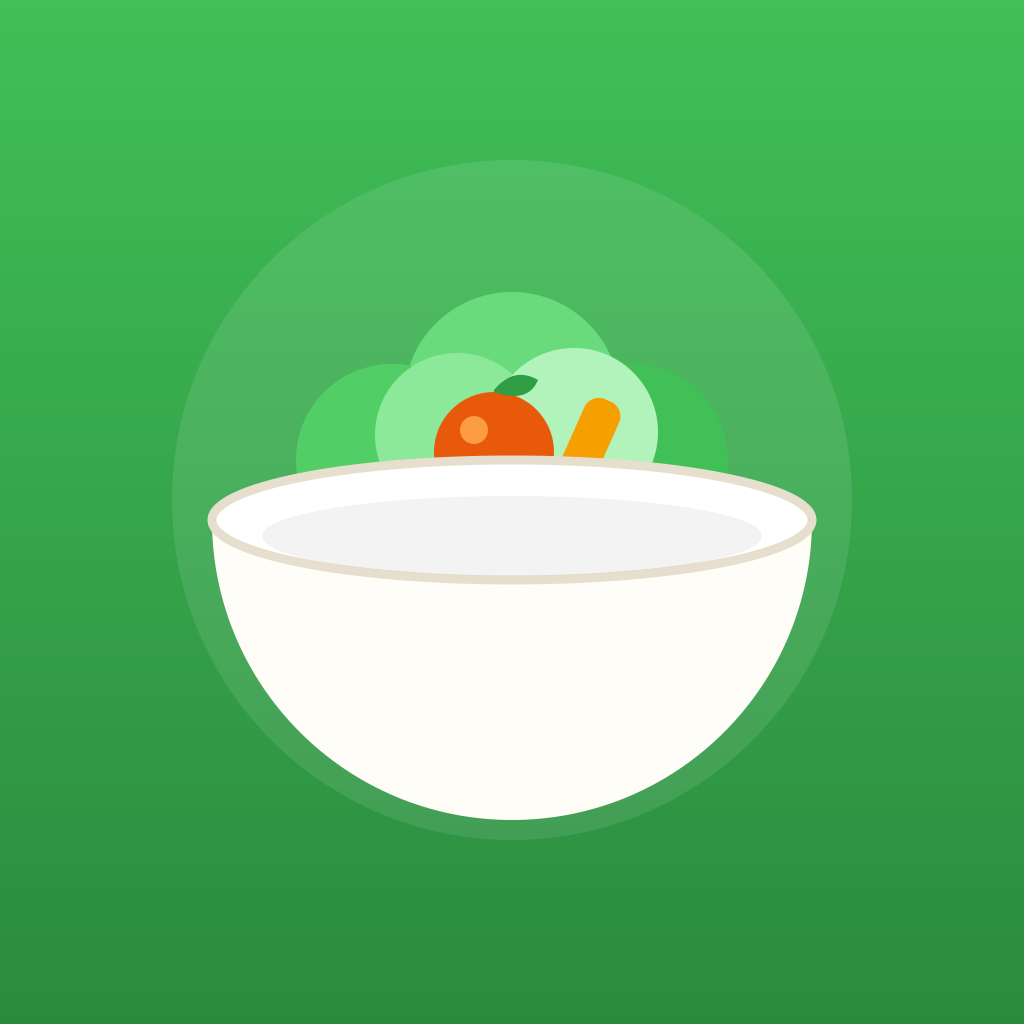
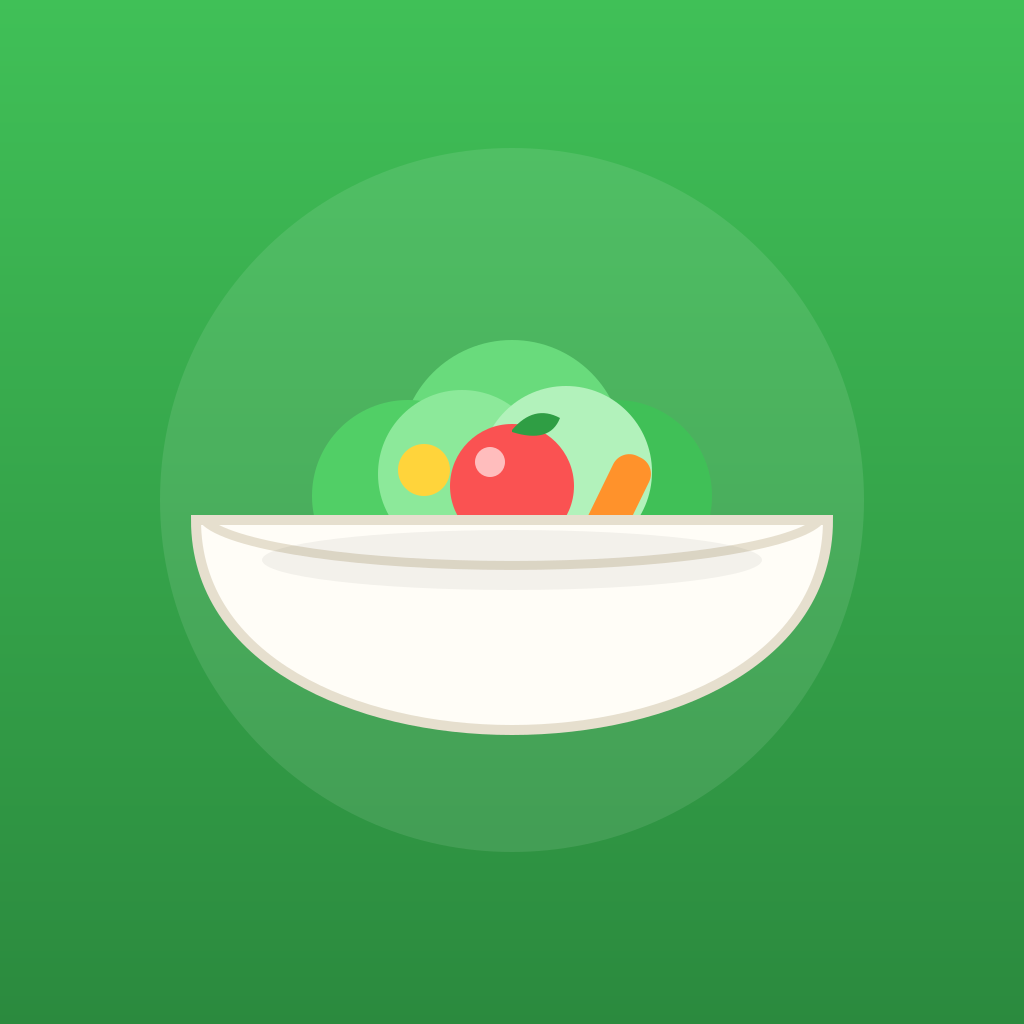
APK'yı sunucusuz çalışır yap + ikonda salatayı kâsenin içine al
- public/ai.js: istemci taraflı Gemini istemcisi — APK'da kullanıcının kendi
  ücretsiz Gemini anahtarıyla doğrudan cihazdan analiz/tarif/kalori
- Ayarlar'a "Gemini API anahtarı" alanı eklendi (anahtar cihazda saklanır)
- Sunucu yokken "Unexpected token <" çökmesi giderildi: yanıt JSON değilse
  kullanıcıyı Ayarlar'a yönlendiren net mesaj gösterilir
- Gemini anahtarı varsa sunucu/health kontrolü atlanır
- İkon: salata artık kâsenin içine oturuyor (kâse, yiyeceğin altını örter)
- sw önbellek sürümü v2'ye yükseltildi, ai.js kabuğa eklendi

https://claude.ai/code/session_01QzPAUaUjR7PLoG6sTmLNvq

Changed region(s): [[0.1875, 0.2812, 0.8125, 0.5938], [0.2188, 0.5938, 0.7812, 0.8125]]

diff --git a/public/app.js b/public/app.js
@@ -68,20 +68,27 @@ function registerServiceWorker() {
 
 async function checkHealth() {
   const banner = el("banner");
+  // Cihazda Gemini anahtarı varsa sunucuya gerek yok — her şey hazır.
+  if (useGemini()) {
+    banner.classList.add("hidden");
+    return;
+  }
   try {
     const r = await fetch(api("/api/health"));
+    const ct = r.headers.get("content-type") || "";
+    if (!ct.includes("application/json")) throw new Error("no-server");
     const d = await r.json();
     if (d.demo) {
       banner.textContent =
-        "Demo modu: örnek veriler gösteriliyor. Kendi fotoğraflarını analiz etmek için sunucuya ücretsiz GEMINI_API_KEY ekleyin.";
+        "Demo modu: örnek veriler. Kendi fotoğraflarını analiz etmek için ⚙ Ayarlar'dan ücretsiz Gemini API anahtarı ekleyin.";
       banner.classList.remove("hidden");
+    } else {
+      banner.classList.add("hidden");
     }
   } catch {
-    if (!apiBase()) {
-      banner.textContent =
-        "Sunucuya bağlanılamadı. Mobil uygulamada ⚙ Ayarlar'dan sunucu adresinizi girin.";
-      banner.classList.remove("hidden");
-    }
+    banner.textContent =
+      "Başlamak için ⚙ Ayarlar'dan ücretsiz Gemini API anahtarını ekle (aistudio.google.com/apikey).";
+    banner.classList.remove("hidden");
   }
 }
 
@@ -188,7 +195,12 @@ async function runIngredients() {
   el("loading-text").textContent = "Fotoğraf inceleniyor…";
   el("loading-sub").textContent = "Malzemeler tanınıyor ve tarifler hazırlanıyor.";
   try {
-    const data = await postImage("/api/analyze");
+    const data = useGemini()
+      ? await window.GeminiClient.analyze(selectedImage.base64, selectedImage.mediaType)
+      : await serverPost("/api/analyze", {
+          image: selectedImage.base64,
+          mediaType: selectedImage.mediaType,
+        });
     renderResults(data);
     showScreen("results");
   } catch (err) {
@@ -201,7 +213,12 @@ async function runCalories() {
   el("loading-text").textContent = "Yemek inceleniyor…";
   el("loading-sub").textContent = "Kalori ve besin değerleri hesaplanıyor.";
   try {
-    const data = await postImage("/api/calories");
+    const data = useGemini()
+      ? await window.GeminiClient.calories(selectedImage.base64, selectedImage.mediaType)
+      : await serverPost("/api/calories", {
+          image: selectedImage.base64,
+          mediaType: selectedImage.mediaType,
+        });
     renderCalories(data);
     showScreen("calories");
   } catch (err) {
@@ -209,12 +226,27 @@ async function runCalories() {
   }
 }
 
-async function postImage(path) {
-  const res = await fetch(api(path), {
-    method: "POST",
-    headers: { "Content-Type": "application/json" },
-    body: JSON.stringify({ image: selectedImage.base64, mediaType: selectedImage.mediaType }),
-  });
+// Cihazda Gemini anahtarı varsa doğrudan Gemini kullanılır (sunucusuz).
+function useGemini() {
+  return Boolean(window.GeminiClient && window.GeminiClient.hasKey());
+}
+
+// Sunucuya POST — yanıt JSON değilse (ör. sunucu yoksa HTML dönerse) net hata verir.
+async function serverPost(path, body) {
+  let res;
+  try {
+    res = await fetch(api(path), {
+      method: "POST",
+      headers: { "Content-Type": "application/json" },
+      body: JSON.stringify(body),
+    });
+  } catch {
+    throw new Error("Sunucuya ulaşılamadı. ⚙ Ayarlar'dan ücretsiz Gemini API anahtarını ekleyin.");
+  }
+  const ct = res.headers.get("content-type") || "";
+  if (!ct.includes("application/json")) {
+    throw new Error("Sunucu bulunamadı. ⚙ Ayarlar'dan ücretsiz Gemini API anahtarını ekleyin.");
+  }
   const data = await res.json();
   if (!res.ok) throw new Error(data.error || "İşlem başarısız");
   return data;
@@ -338,13 +370,9 @@ async function openRecipeByTitle(title) {
     )}" tarifi hazırlanıyor…</p></div>`;
   modal.classList.remove("hidden");
   try {
-    const res = await fetch(api("/api/recipe"), {
-      method: "POST",
-      headers: { "Content-Type": "application/json" },
-      body: JSON.stringify({ title, detected: detectedNames }),
-    });
-    const data = await res.json();
-    if (!res.ok) throw new Error(data.error || "Tarif alınamadı");
+    const data = useGemini()
+      ? await window.GeminiClient.recipe(title, detectedNames)
+      : await serverPost("/api/recipe", { title, detected: detectedNames });
     openRecipeObject(data);
   } catch (err) {
     el("modal-body").innerHTML = `<div class="detail-loading"><p>${escapeHtml(
@@ -574,6 +602,7 @@ function updateBadges() {
 // ---- Ayarlar ----
 const settingsModal = el("settings-modal");
 el("nav-settings").addEventListener("click", () => {
+  el("gemini-key-input").value = localStorage.getItem("eviko_gemini_key") || "";
   el("api-base-input").value = localStorage.getItem("eviko_api_base") || "";
   settingsModal.classList.remove("hidden");
 });
@@ -581,19 +610,24 @@ el("settings-close").addEventListener("click", () => settingsModal.classList.add
 settingsModal.addEventListener("click", (e) => {
   if (e.target === settingsModal) settingsModal.classList.add("hidden");
 });
-el("api-base-save").addEventListener("click", () => {
+el("settings-save").addEventListener("click", () => {
+  const k = el("gemini-key-input").value.trim();
   const v = el("api-base-input").value.trim();
+  if (k) localStorage.setItem("eviko_gemini_key", k);
+  else localStorage.removeItem("eviko_gemini_key");
   if (v) localStorage.setItem("eviko_api_base", v);
   else localStorage.removeItem("eviko_api_base");
   settingsModal.classList.add("hidden");
-  el("banner").classList.add("hidden");
   checkHealth();
-  toast("Ayarlar kaydedildi");
+  toast("Ayarlar kaydedildi ✓");
 });
-el("api-base-clear").addEventListener("click", () => {
+el("settings-clear").addEventListener("click", () => {
+  localStorage.removeItem("eviko_gemini_key");
   localStorage.removeItem("eviko_api_base");
+  el("gemini-key-input").value = "";
   el("api-base-input").value = "";
-  toast("Sunucu adresi temizlendi");
+  checkHealth();
+  toast("Ayarlar temizlendi");
 });
 
 // ---- Yardımcılar ----

diff --git a/public/ai.js b/public/ai.js
@@ -1,0 +1,116 @@
+// İstemci taraflı Google Gemini istemcisi.
+// APK/mobilde sunucuya gerek kalmadan, kullanıcının kendi ÜCRETSİZ Gemini
+// anahtarıyla doğrudan cihazdan çalışır. Anahtar ⚙ Ayarlar'dan girilir ve
+// yalnızca bu cihazda (localStorage) saklanır.
+(function () {
+  const keyOf = () => localStorage.getItem("eviko_gemini_key") || "";
+  const modelOf = () => localStorage.getItem("eviko_gemini_model") || "gemini-2.0-flash";
+  const hasKey = () => Boolean(keyOf());
+
+  const PERSONA =
+    "Sen Eviko adlı sıcak, pratik bir mutfak asistanısın. Sebze/meyve " +
+    "fotoğraflarından pratik yemekler önerir, hazır yemeklerin kalorisini tahmin " +
+    "edersin. Türk ev mutfağına ağırlık verir ve her zaman Türkçe yanıt verirsin.";
+
+  function strip(s) {
+    return s
+      .replace(/^/, "")
+      .replace(/^```(?:json)?/i, "")
+      .replace(/```$/i, "")
+      .trim();
+  }
+
+  async function call(parts, maxOutputTokens = 4096) {
+    if (!hasKey()) {
+      throw new Error("Gemini API anahtarı yok. ⚙ Ayarlar'dan ekleyin.");
+    }
+    const url =
+      `https://generativelanguage.googleapis.com/v1beta/models/${modelOf()}:generateContent?key=` +
+      encodeURIComponent(keyOf());
+    let res;
+    try {
+      res = await fetch(url, {
+        method: "POST",
+        headers: { "Content-Type": "application/json" },
+        body: JSON.stringify({
+          systemInstruction: { parts: [{ text: PERSONA }] },
+          contents: [{ role: "user", parts }],
+          generationConfig: {
+            responseMimeType: "application/json",
+            temperature: 0.6,
+            maxOutputTokens,
+          },
+        }),
+      });
+    } catch {
+      throw new Error("İnternet bağlantısı kurulamadı.");
+    }
+    if (!res.ok) {
+      let msg = "";
+      try {
+        const e = await res.json();
+        msg = e?.error?.message || "";
+      } catch {}
+      if (res.status === 400 || res.status === 403) {
+        throw new Error("Gemini anahtarı geçersiz görünüyor. ⚙ Ayarlar'dan kontrol edin.");
+      }
+      if (res.status === 429) {
+        throw new Error("Gemini ücretsiz kotası doldu, biraz sonra tekrar deneyin.");
+      }
+      throw new Error(`Gemini hatası (${res.status}). ${msg}`.trim());
+    }
+    const data = await res.json();
+    const text = (data?.candidates?.[0]?.content?.parts || [])
+      .map((p) => p.text || "")
+      .join("");
+    if (!text) throw new Error("Gemini boş yanıt verdi, tekrar deneyin.");
+    return JSON.parse(strip(text));
+  }
+
+  const ANALYZE_SHAPE = `
+Yanıtı SADECE şu JSON yapısında ver:
+{"detected":[{"name":"Türkçe ad","emoji":"tek emoji","confidence":"yüksek|orta|düşük"}],
+"recipes":[{"id":"kisa-kimlik","title":"ad","description":"kısa tanıtım","category":"çorba|ana yemek|salata|kahvaltı|meze|tatlı|atıştırmalık","durationMinutes":30,"difficulty":"kolay|orta|zor","usesIngredients":["..."],"missingCommonIngredients":["..."]}]}`;
+
+  const RECIPE_SHAPE = `
+Yanıtı SADECE şu JSON yapısında ver:
+{"title":"ad","servings":2,"durationMinutes":30,"difficulty":"kolay|orta|zor",
+"ingredients":[{"item":"malzeme","quantity":2,"unit":"adet|su bardağı|yemek kaşığı|g|ml","toTaste":false}],
+"steps":["..."],"tips":["..."]}
+"toTaste" true olanlarda "quantity" 0 olabilir.`;
+
+  const CALORIE_SHAPE = `
+Yanıtı SADECE şu JSON yapısında ver:
+{"dishName":"ad","summary":"kısa açıklama","totalCalories":350,"confidence":"yüksek|orta|düşük",
+"components":[{"name":"bileşen","emoji":"tek emoji","calories":120}],
+"macros":{"proteinG":10,"carbsG":40,"fatG":12},"healthNote":"kısa not"}`;
+
+  async function analyze(imageBase64, mediaType) {
+    const prompt =
+      "Bu fotoğraftaki sebze ve meyveleri tanımla. Sonra bunlarla (tuz, yağ, " +
+      "soğan, sarımsak, un, yumurta, baharat evde var sayılır) yapılabilecek 6-8 " +
+      "çeşitli pratik yemek öner (çorba, ana yemek, salata, kahvaltılık vb.). " +
+      "Fotoğrafta sebze/meyve yoksa 'detected' boş olsun." + ANALYZE_SHAPE;
+    return call([{ inlineData: { mimeType: mediaType, data: imageBase64 } }, { text: prompt }]);
+  }
+
+  async function recipe(title, detected = []) {
+    const elde = detected.length ? `Evde şunlar var: ${detected.join(", ")}. ` : "";
+    const prompt =
+      `"${title}" yemeğinin detaylı, adım adım tarifini ver. ${elde}` +
+      "2-4 kişilik temel al ('servings'). Miktarları sayısal 'quantity' + 'unit' ile, " +
+      "damak zevkine göre olanları 'toTaste': true ile belirt." + RECIPE_SHAPE;
+    return call([{ text: prompt }]);
+  }
+
+  async function calories(imageBase64, mediaType) {
+    const prompt =
+      "Bu hazır/pişmiş bir yemek fotoğrafı. Yemeği tanı, porsiyonu tahmin et; " +
+      "tahmini toplam kaloriyi (kcal), bileşen dağılımını ve makroları " +
+      "(protein/karbonhidrat/yağ - gram) ver. Görsel tahmindir; emin değilsen " +
+      "'confidence' düşük olsun. Yemek yoksa 'dishName' boş olsun." + CALORIE_SHAPE;
+    return call([{ inlineData: { mimeType: mediaType, data: imageBase64 } }, { text: prompt }], 2048);
+  }
+
+  window.GeminiClient = { hasKey, analyze, recipe, calories };
+})();

diff --git a/public/index.html b/public/index.html
@@ -149,20 +149,31 @@
       <div class="modal-card settings-card" role="dialog" aria-modal="true">
         <button id="settings-close" class="modal-close" aria-label="Kapat">×</button>
         <h2>⚙ Ayarlar</h2>
+
+        <label class="field-label" for="gemini-key-input">🔑 Gemini API anahtarı (ücretsiz)</label>
         <p class="muted small">
-          Mobil/APK uygulamasında, Eviko sunucunuzun adresini girin. Web'de boş
-          bırakabilirsiniz.
+          <a href="https://aistudio.google.com/apikey" target="_blank" rel="noopener"
+            >aistudio.google.com/apikey</a
+          >
+          adresinden ücretsiz al ve buraya yapıştır. Anahtar yalnızca bu cihazda
+          saklanır; fotoğraflar analiz için doğrudan Google'a gönderilir.
         </p>
-        <label class="field-label" for="api-base-input">Sunucu adresi (API)</label>
-        <input
-          id="api-base-input"
-          type="url"
-          placeholder="https://eviko-sunucum.example.com"
-          autocomplete="off"
-        />
+        <input id="gemini-key-input" type="password" placeholder="AIza…" autocomplete="off" />
+
+        <details class="adv">
+          <summary class="muted small">Gelişmiş: kendi sunucunu kullan</summary>
+          <label class="field-label" for="api-base-input">Sunucu adresi (API)</label>
+          <input
+            id="api-base-input"
+            type="url"
+            placeholder="https://eviko-sunucum.example.com"
+            autocomplete="off"
+          />
+        </details>
+
         <div class="settings-actions">
-          <button id="api-base-save" class="btn btn-primary">Kaydet</button>
-          <button id="api-base-clear" class="btn btn-ghost">Temizle</button>
+          <button id="settings-save" class="btn btn-primary">Kaydet</button>
+          <button id="settings-clear" class="btn btn-ghost">Temizle</button>
         </div>
       </div>
     </div>
@@ -170,6 +181,7 @@
     <footer class="footer muted small">Eviko · Claude ile geliştirildi</footer>
 
     <script src="/config.js"></script>
+    <script src="/ai.js"></script>
     <script src="/app.js"></script>
   </body>
 </html>

diff --git a/public/styles.css b/public/styles.css
@@ -811,7 +811,8 @@ h2 {
   font-size: 0.9rem;
   margin: 14px 0 6px;
 }
-#api-base-input {
+#api-base-input,
+#gemini-key-input {
   width: 100%;
   border: 1.5px solid var(--line);
   border-radius: 12px;
@@ -819,6 +820,15 @@ h2 {
   font-size: 1rem;
   font-family: inherit;
   background: #fff;
+}
+.adv {
+  margin-top: 14px;
+  border-top: 1px solid var(--line);
+  padding-top: 10px;
+}
+.adv summary {
+  cursor: pointer;
+  padding: 4px 0;
 }
 .settings-actions {
   display: flex;

diff --git a/public/sw.js b/public/sw.js
@@ -1,10 +1,11 @@
 // Eviko service worker — uygulama kabuğunu önbelleğe alır (PWA / çevrimdışı destek).
-const CACHE = "eviko-v1";
+const CACHE = "eviko-v2";
 const SHELL = [
   "/",
   "/index.html",
   "/styles.css",
   "/app.js",
+  "/ai.js",
   "/config.js",
   "/manifest.webmanifest",
   "/icons/icon-192.png",

diff --git a/README.md b/README.md
@@ -13,9 +13,11 @@ hazır bir yemeğin fotoğrafından **kalorisini** tahmin eder.
 **[➡ eviko.apk indir](https://github.com/servankrall/Eviko/releases/latest/download/eviko.apk)**
 
 > Bu link her zaman en güncel sürüme gider. Telefonda Ayarlar → "bilinmeyen
-> kaynaklara izin ver" açıp dosyayı kur. APK'nın gerçek analiz yapması için
-> ⚙ Ayarlar'dan sunucu adresini girmen gerekir (anahtar güvenlik için telefonda
-> değil, sunucuda durur).
+> kaynaklara izin ver" açıp dosyayı kur. İlk açılışta uygulamadaki ⚙ **Ayarlar**'dan
+> ücretsiz **Gemini API anahtarını** gir
+> ([aistudio.google.com/apikey](https://aistudio.google.com/apikey)) — analiz
+> doğrudan cihazından çalışır, **sunucu gerekmez**. (Dilersen "Gelişmiş" bölümünden
+> kendi sunucunu da kullanabilirsin.)
 
 ---
 
